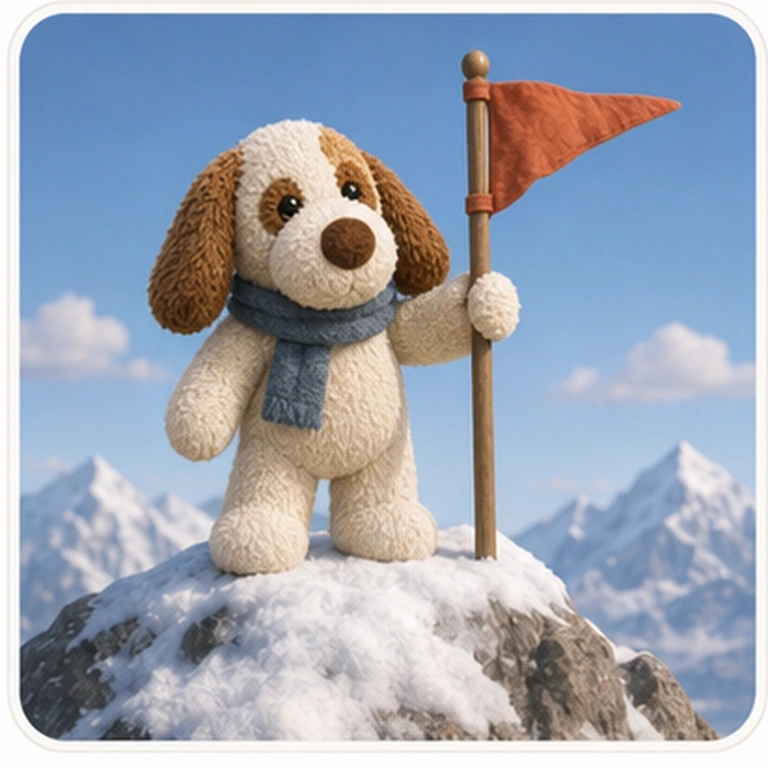
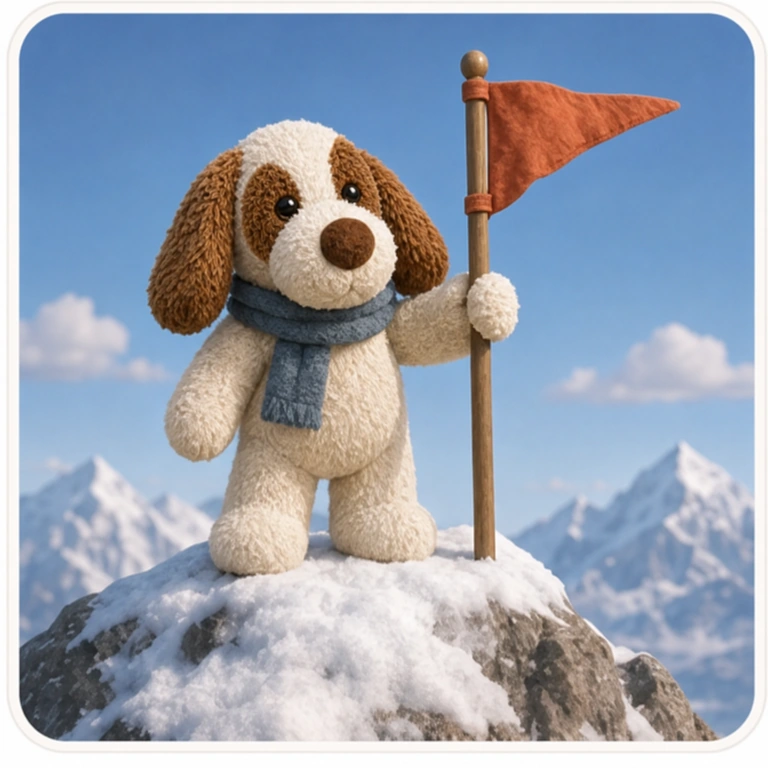
fix: restore symmetric Baibai eye patches

diff --git a/sw.js b/sw.js
@@ -1,4 +1,4 @@
-const CACHE = "magic-english-v47";
+const CACHE = "magic-english-v48";
 const CORE = ["./", "./index.html", "./data.js", "./app.js", "./manifest.json", "./audio/manifest.js", "./audio/baibai/manifest.js", "./assets/baibai-base.png"];
 self.addEventListener("install", e => e.waitUntil(caches.open(CACHE).then(c => c.addAll(CORE)).then(() => self.skipWaiting())));
 self.addEventListener("activate", e => e.waitUntil(caches.keys().then(keys => Promise.all(keys.filter(k => k !== CACHE).map(k => caches.delete(k)))).then(() => self.clients.claim())));

diff --git a/tests/test.js b/tests/test.js
@@ -85,7 +85,7 @@ function ok(cond, name) { if (cond) { pass++; console.log("  ✓", name); } else
   ok($("#petShow .petImg")?.src.endsWith("/assets/baibai-base.png"), "★ 首页默认伙伴是无服装的白白");
   ok($("#coinNum").textContent === "0", "初始金币0");
   const swText = fs.readFileSync(DIR + "/sw.js", "utf8");
-  ok(swText.includes("magic-english-v47") && swText.includes("const CORE") && !swText.includes("STICKER_V2_FILES"), "★ 启动只预缓存8个核心文件，贴纸和语音按需缓存");
+  ok(swText.includes("magic-english-v48") && swText.includes("const CORE") && !swText.includes("STICKER_V2_FILES"), "★ 启动只预缓存8个核心文件，贴纸和语音按需缓存");
   ok(swText.includes("fallback || fresh"), "★ 慢网络二次打开优先显示缓存首页");
 
   console.log("— 地图与锁 —");